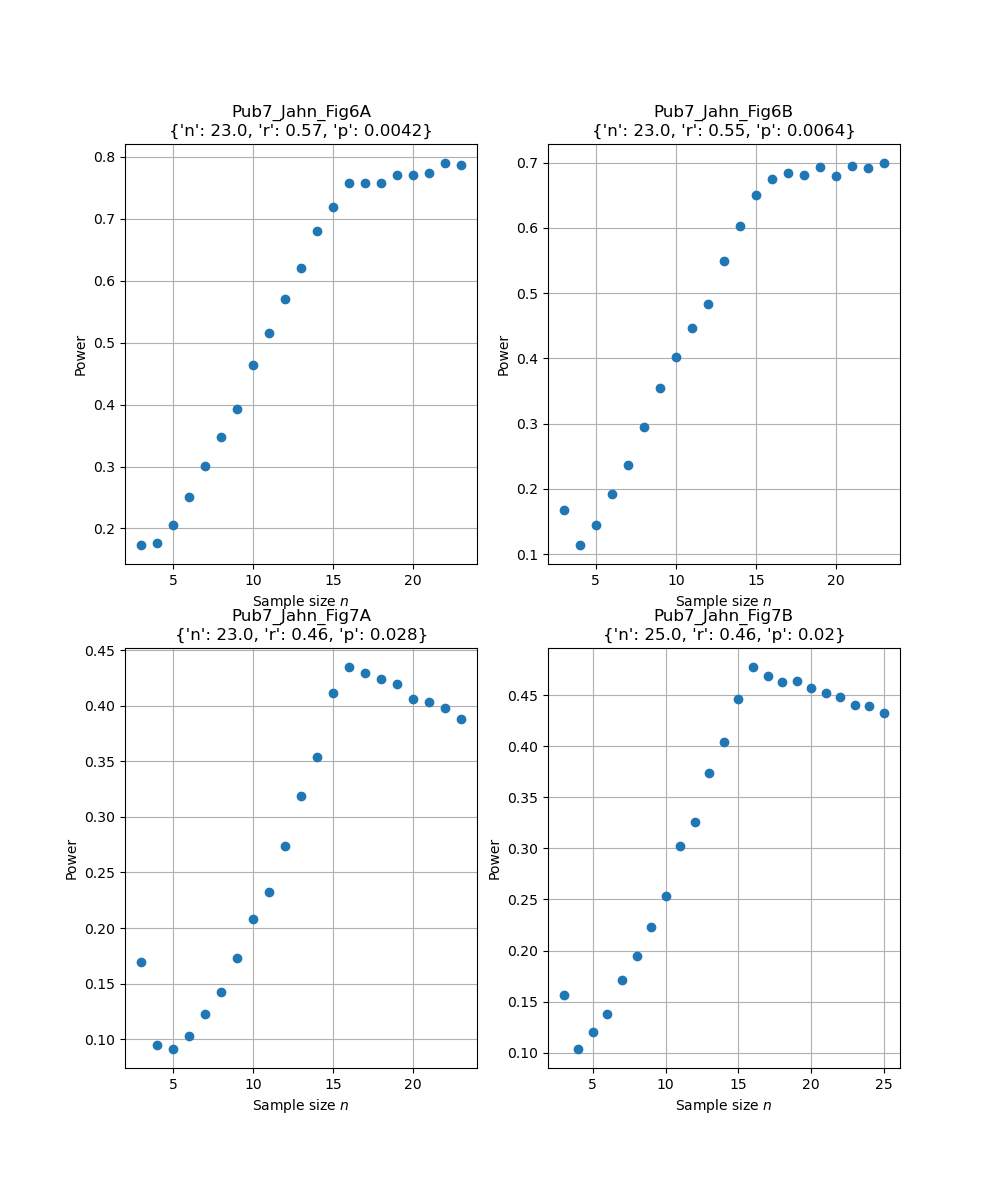
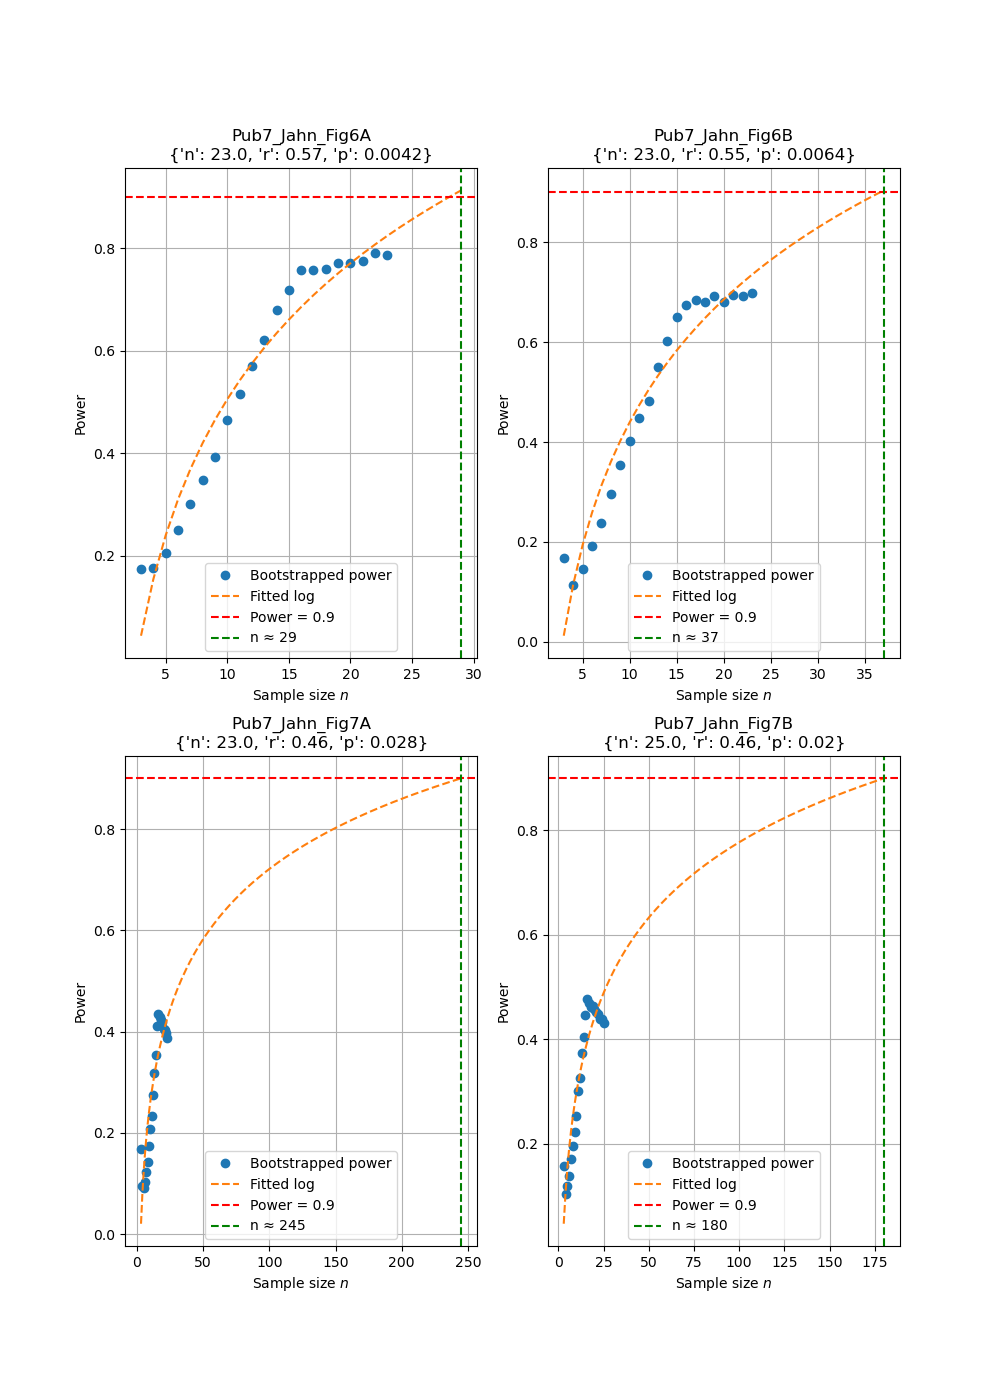
Extrapolation to higher sample sizes than the original data.

diff --git a/utils_mc.py b/utils_mc.py
@@ -44,16 +44,17 @@ def compute_bootstrapped_params(x_orig, y_orig, stat_names, stat_func, path_save
     pass
 
 
-def analyze_bootstrapped_params(path_load, stat_sign, nm=None, plot=None):
+def analyze_bootstrapped_params(path_load, stat_sign, nm=None, plot=None, fit=True, desired_power=0.9):
     # Using bootstrapped datasets of variable size to evaluate the type II error rate (power) in a monte-carlo setting
+    # If logfit=True the power-samplesize relationship is fitted to the logarithmic function pw = log(n),
+    #   which may be used for extrapolating a coarse estimate for the needed population size to reach a power of interest
 
     df = pd.read_csv(path_load, index_col=0)
 
     p0 = df.iloc[0]
     df = df.drop(0)
-
-    print(df.shape)
-    print(p0.values)
+    print("ANALYZING bootstrapped results from ", nm, df.shape)
+    print("\tOriginal data:", p0.values)
 
     nvals = np.asarray(np.unique(df["n"].values), dtype=int)
     power_vals = []
@@ -65,18 +66,36 @@ def analyze_bootstrapped_params(path_load, stat_sign, nm=None, plot=None):
         print(n, dfn.shape, perc_sign)
         power_vals.append(perc_sign)
 
+    if fit:
+        a, b = np.polyfit(np.log(nvals), power_vals, deg=1)
+        print(f"\tFitted logarithmic function: y={a:.2f} log(x) + {b:.2f}")
+        fitfunc = lambda n: a * np.log(n) + b
+        n_req = int(np.ceil(np.exp((desired_power - b) / a)))
+        nvals_fit = list(range(min(nvals), n_req + 1))
+
     if plot:
         if len(plot) == 2:
             fig, ax = plot
         else:
             fig, ax = plt.subplots()
 
-        ax.plot(nvals, power_vals, "o")
+        ax.plot(nvals, power_vals, "o", label="Bootstrapped power")
+
+        if fit:
+            ax.plot(nvals_fit, fitfunc(nvals_fit), "--", label="Fitted log")
+
+            # Plot horizontal line at desired power
+            ax.axhline(y=desired_power, color='red', linestyle='--', label=f'Power = {desired_power}')
+
+            # Plot vertical line at required n
+            ax.axvline(x=n_req, color='green', linestyle='--', label=f'n ≈ {n_req}')
+
         p0 = {k: float(f"{v:.2g}") for k,v in p0.to_dict().items()}
         ax.set_title(f"{nm}\n{p0}")
         ax.grid()
         ax.set_xlabel("Sample size $n$")
         ax.set_ylabel("Power")
+        ax.legend()
 
     return p0, nvals, power_vals
 

diff --git a/pub7.py b/pub7.py
@@ -38,7 +38,7 @@ stat_names = ["r", "p"]  # statistical parameters to evaluate using param_func
 stat_sign = lambda p1, p2: p1 ** 2 >= .25 and p2 < .05
 
 
-fig, ax = plt.subplots(ncols=2, nrows=2, figsize=(10, 12))
+fig, ax = plt.subplots(ncols=2, nrows=2, figsize=(10, 14))
 ax = ax.ravel()
 
 # Iterate over the four figures
@@ -48,8 +48,8 @@ for i, dfi in enumerate(dfs):
     path_save = os.path.join(folder_data, f"boot_{nm}.csv")
 
     if do_calc:
-        compute_bootstrapped_params(x_orig, y_orig, stat_names, stat_func, path_save=path_save, n_min=3, n_rep=10000, nm=nm)
-    analyze_bootstrapped_params(path_save, stat_sign, nm=nm, plot=(fig, ax[i]))
+        compute_bootstrapped_params(x_orig, y_orig, stat_names, stat_func, path_save=path_save, n_min=3, n_rep=1000, nm=nm)
+    analyze_bootstrapped_params(path_save, stat_sign, nm=nm, plot=(fig, ax[i]), fit=True, desired_power=0.9)
 
 savefig_path = os.path.join(folder_figs, "power_boot.png")
 plt.savefig(savefig_path)

diff --git a/readme.md b/readme.md
@@ -25,6 +25,10 @@ data/pubX and loaded using functions in utils_load.py. Replicated figures along 
 - First a generator of extracted points from the four figures are loaded using the function **load_pub7(folder_data)** from [utils_load.py](utils_load.py)
 - Figure 6A is replicated using extracted points. 
 
+```python
+compute_bootstrapped_params(x_orig, y_orig, stat_names, stat_func, path_save=path_save, n_min=3, n_rep=1000, nm=nm)
+```
+
 <img src="./figures/pub7_jahn21/readme_data.png" alt="alt text" width="800"/>
 
 Note that the pearson correlation coefficient vary somewhat to the original (R2 of 0.33 versus 0.37), but the p-value is similar.
@@ -36,7 +40,29 @@ statistical significance under the reported success criteria (statistical power)
 
 Publication 7 uses a double criteria: both $R^2 \geq 0.25$ and p < .05
 <br>
+This criteria is specified in the _stat_sign_ function, and used as an input parameter in the function _analyze_bootstrapped_params_.
+
+```python
+stat_sign = lambda p1, p2: p1 ** 2 >= .25 and p2 < .05
+
+fig, ax = plt.subplots()
+analyze_bootstrapped_params(path_save, stat_sign, nm=nm, plot=(fig, ax[i]))
+
+```
+
 
 <img src="./figures/pub7_jahn21/readme_power.png" alt="alt text" width="300"/>
 
-Evaluating the figure, it seems to converge to a power about
+Evaluating the figure, it seems to converge to a power around 0.8 when approaching the original sample size (n=23), 
+suggesting this is a representative power of the study.
+
+## Extrapolation to higher population sizes
+Instead of over-sampling the original data, the power / sample-size relationship is modelled using a 
+logarithmic function. Thus enabling a coarse estimate of the required sample size to reach a desired power. 
+
+```python
+analyze_bootstrapped_params(path_save, stat_sign, nm=nm, plot=(fig, ax[i]), fit=True, desired_power=0.9)
+```
+
+
+<img src="./figures/pub7_jahn21/readme_power_fit.png" alt="alt text" width="300"/>
